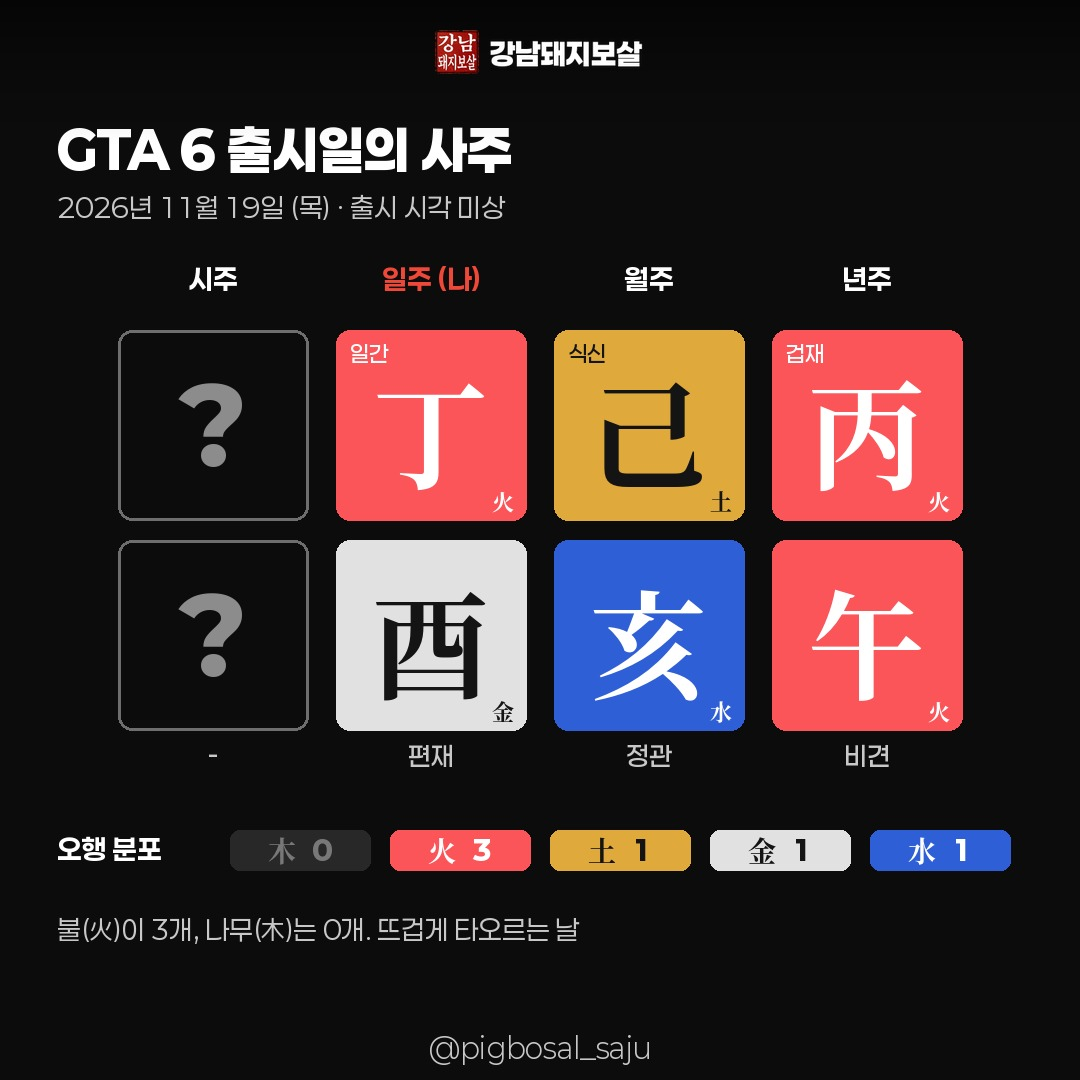
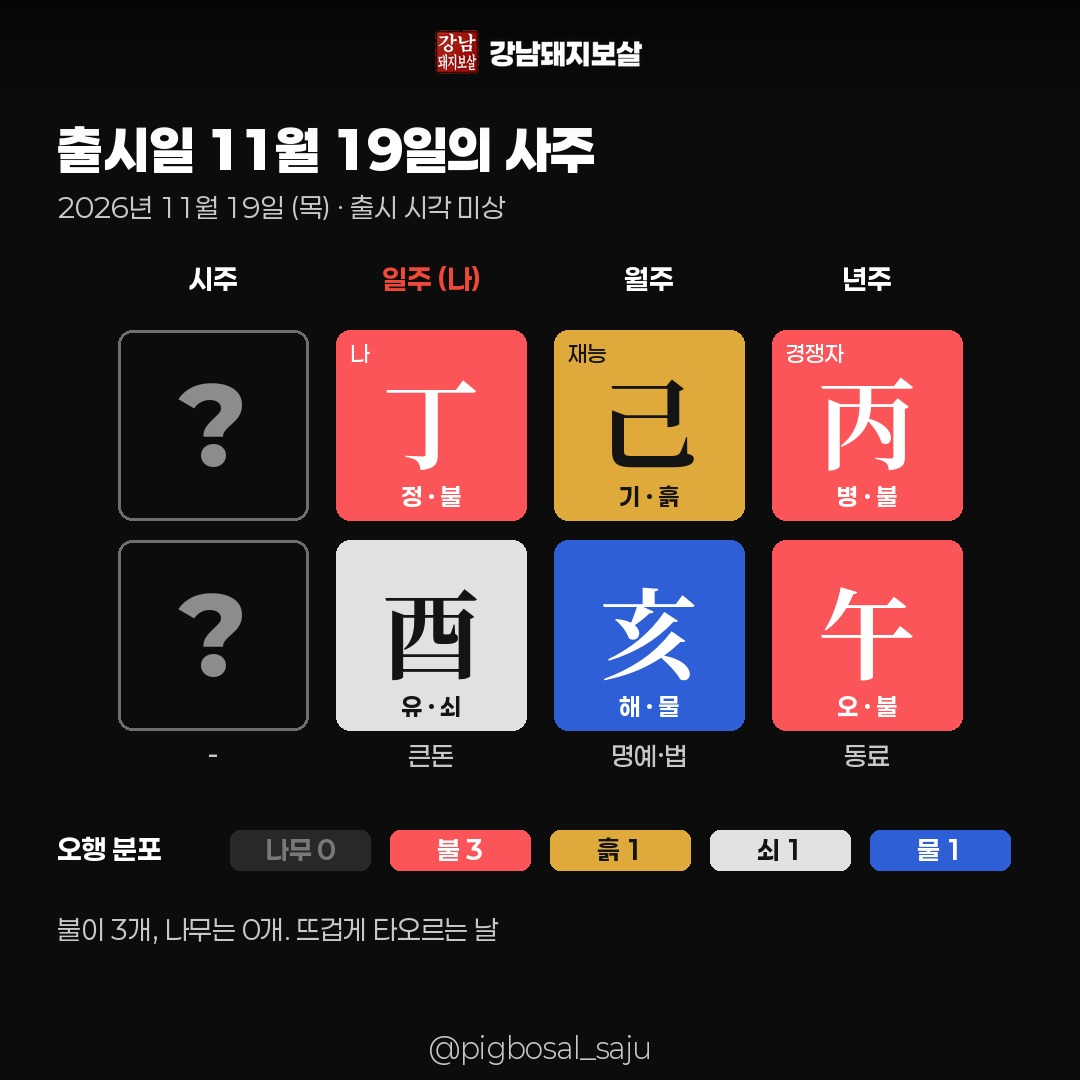
GTA 6 편 재작성(쉬운 말·후킹), 명식에 한글 읽기·쉬운 십신 표기, 문체 규칙
Claude-Session: https://claude.ai/code/session_01R39AKJLY1tLsuohGnm6TD8

diff --git a/cardgen/render_cards.py b/cardgen/render_cards.py
@@ -19,6 +19,10 @@ ELEM = {  # 오행 색
     '土': ((224, 169, 59), (20, 20, 20)), '金': ((225, 225, 225), (20, 20, 20)),
     '水': ((47, 95, 214), WHITE),
 }
+READ = dict(zip('甲乙丙丁戊己庚辛壬癸子丑寅卯辰巳午未申酉戌亥', '갑을병정무기경신임계자축인묘진사오미신유술해'))
+TG_KO = {'일간': '나', '비견': '동료', '겁재': '경쟁자', '식신': '재능', '상관': '끼·입담', '편재': '큰돈',
+         '정재': '고정 수입', '편관': '압박', '정관': '명예·법', '편인': '아이디어', '정인': '도움'}
+EL_KO = {'木': '나무', '火': '불', '土': '흙', '金': '쇠', '水': '물'}
 GAN_EL = dict(zip('甲乙丙丁戊己庚辛壬癸', '木木火火土土金金水水'))
 ZHI_EL = dict(zip('子丑寅卯辰巳午未申酉戌亥', '水土木木土火火土金金土水'))
 
@@ -238,8 +242,9 @@ def pillar_box(im, d, x, y, sz, ch, el):
         return
     bgc, fg = ELEM[el]
     d.rounded_rectangle((x, y, x + sz, y + sz), 14, fill=bgc)
-    d.text((x + sz / 2, y + sz / 2 + 4), ch, font=HJ(int(sz * 0.62)), fill=fg, anchor='mm')
-    d.text((x + sz - 12, y + sz - 10), el, font=HJ(22), fill=fg + (200,) if len(fg) == 3 else fg, anchor='rs')
+    d.text((x + sz / 2, y + sz / 2 - 6), ch, font=HJ(int(sz * 0.52)), fill=fg, anchor='mm')
+    # 한글 읽기 + 오행 이름 (한자 모르는 사람도 바로 읽히게)
+    d.text((x + sz / 2, y + sz - 14), f"{READ.get(ch, '')} · {EL_KO.get(el, '')}", font=F('7Bold', 24), fill=fg, anchor='ms')
 
 
 def slide_chart(s, c, idx):
@@ -261,6 +266,7 @@ def slide_chart(s, c, idx):
         pillar_box(im, d, x, y_g, sz, g, GAN_EL.get(g))
         pillar_box(im, d, x, y_z, sz, z, ZHI_EL.get(z))
         tg, tz = c['tengods'][i]
+        tg, tz = TG_KO.get(tg, tg), TG_KO.get(tz, tz)
         d.text((x + sz / 2, y_g - 0 - 8 + 0), '', font=F('4Regular', 1))
         d.text((x + sz / 2, y_z + sz + 36), tz, font=F('5Medium', 26), fill=GRAY, anchor='ms')
         # 천간 십신은 박스 위 머리글 아래 작은 라벨
@@ -285,8 +291,7 @@ def slide_chart(s, c, idx):
         n = counts.get(el, 0); bgc, fg = ELEM[el]
         d.rounded_rectangle((bx, y - 30, bx + 140, y + 10), 10, fill=bgc if n else (40, 40, 40))
         col = fg if n else (120, 120, 120)
-        d.text((bx + 52, y - 10), el, font=HJ(28), fill=col, anchor='mm')
-        d.text((bx + 92, y - 10), str(n), font=F('9Black', 28), fill=col, anchor='mm')
+        d.text((bx + 70, y - 10), f"{EL_KO[el]} {n}", font=F('7Bold', 26), fill=col, anchor='mm')
         bx += 160
     d.text((57, 940), s['note'], font=F('4Regular', 27), fill=GRAY, anchor='ls')
     handle(d)

diff --git a/docs/DAILY_PLAYBOOK.md b/docs/DAILY_PLAYBOOK.md
@@ -51,6 +51,13 @@
 - **사진:** 웹에서 인물 사진을 가져오지 않는다. `photos/library/<이름>.jpg`가 있으면 사용, 없으면 한자 배경.
 - `status: "draft"`, `publish_at`: 다음 날 `T09:00`, `T12:00`, `T19:00` (순서는 화제성 높은 것을 19시).
 
+## 3-1. 문체 규칙 (사용자 피드백 반영, 반드시 지킬 것)
+- **한자는 명식 장에만.** 본문·제목·소제목에는 한자·명리 용어(식신생재, 丙辛합 등)를 쓰지 않는다. '재능이 돈이 되는 구조', '서로 끌어당기는 궁합'처럼 쉬운 말로.
+- **표지 = 단정형 후킹.** "OOO가 OO한 이유, 사주에 있었다" / "이 사주라서 OO했다"처럼 원인-결과를 한 줄로.
+- **소제목 = 주장.** "① 원래 날짜는 '가게 문 열면 안 되는 날'"처럼 읽기만 해도 내용이 보이게.
+- **실제로 일어난 일에만 사주를 연결한다.** 없는 사건을 예언하거나 범죄·질병을 단정하지 않는다.
+- 배경 큰 글자(bg_hanja)에는 한자 대신 핵심 한글 키워드(예: '대박', '위험', '수능').
+
 ## 4. 렌더·전달
 - `python3 scripts/render_all.py` 후 편마다 8장 미리보기를 한 장으로 합쳐 보낸다.
 - 업로드용 zip: 파일·폴더 이름은 **영문만** (예: `cardnews_YYYY-MM-DD.zip` 안에 `0900_<slug>/01.jpg…08.jpg, caption.txt`). caption.txt는 UTF-8(BOM).
